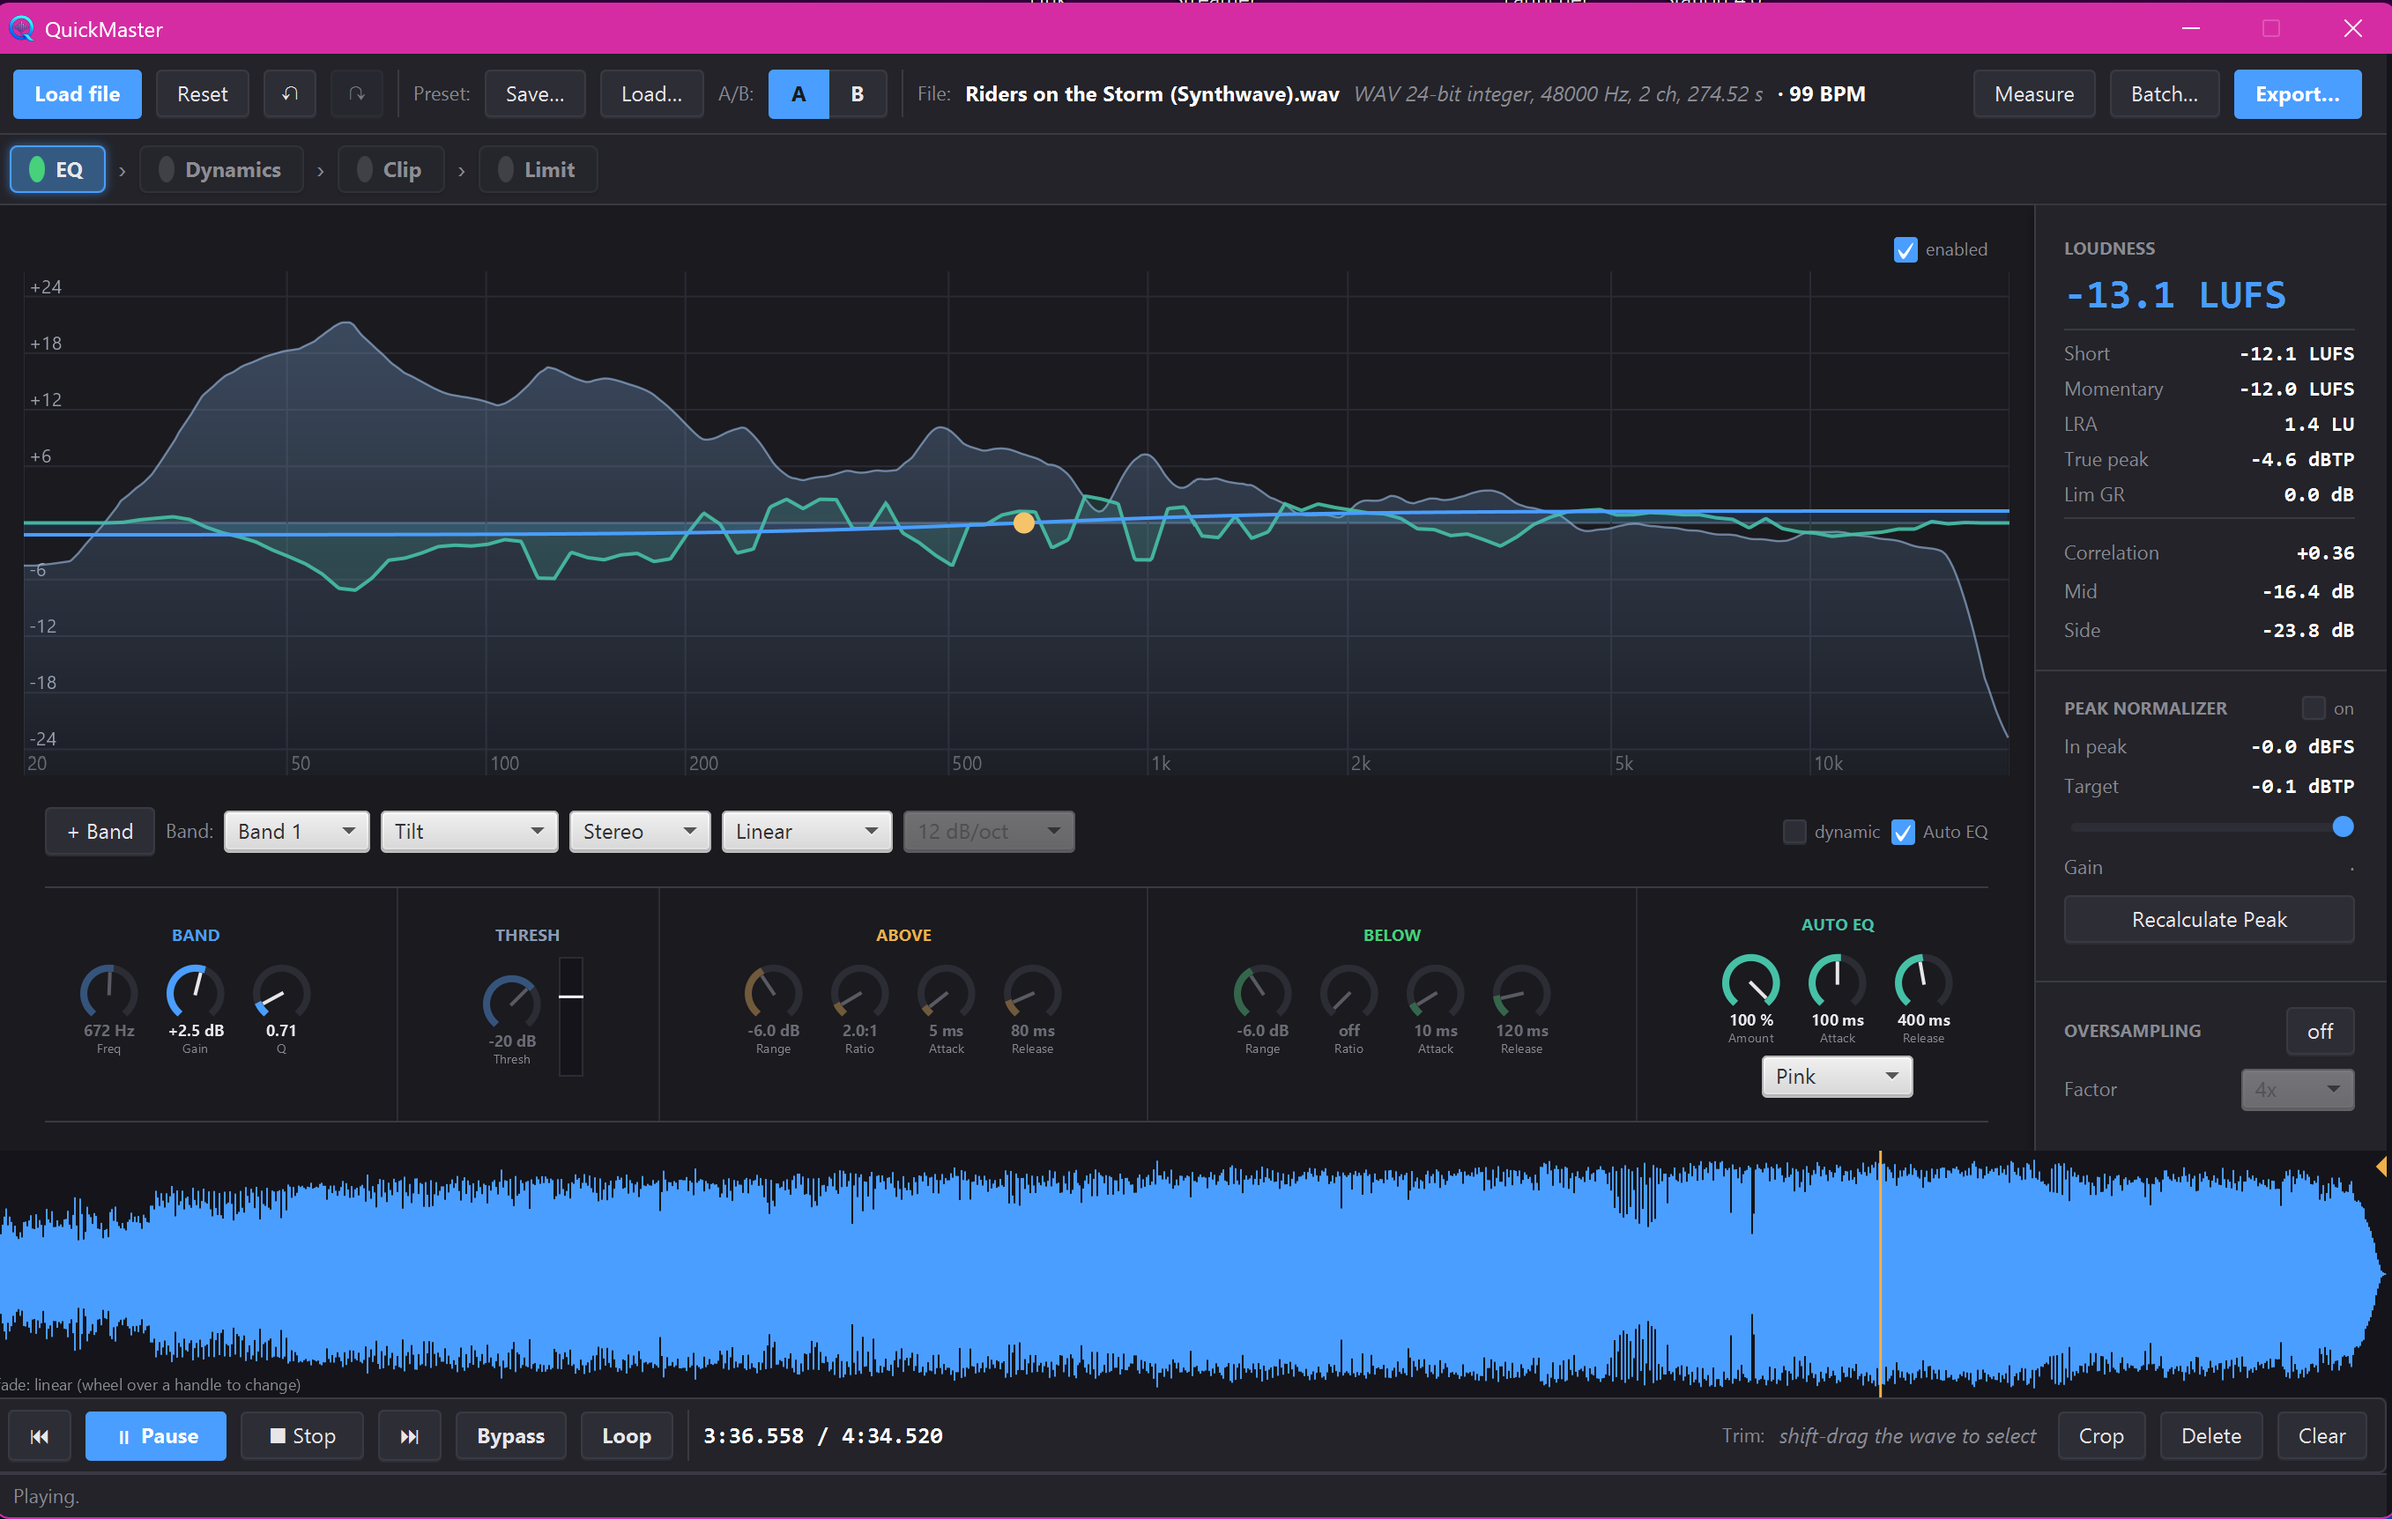
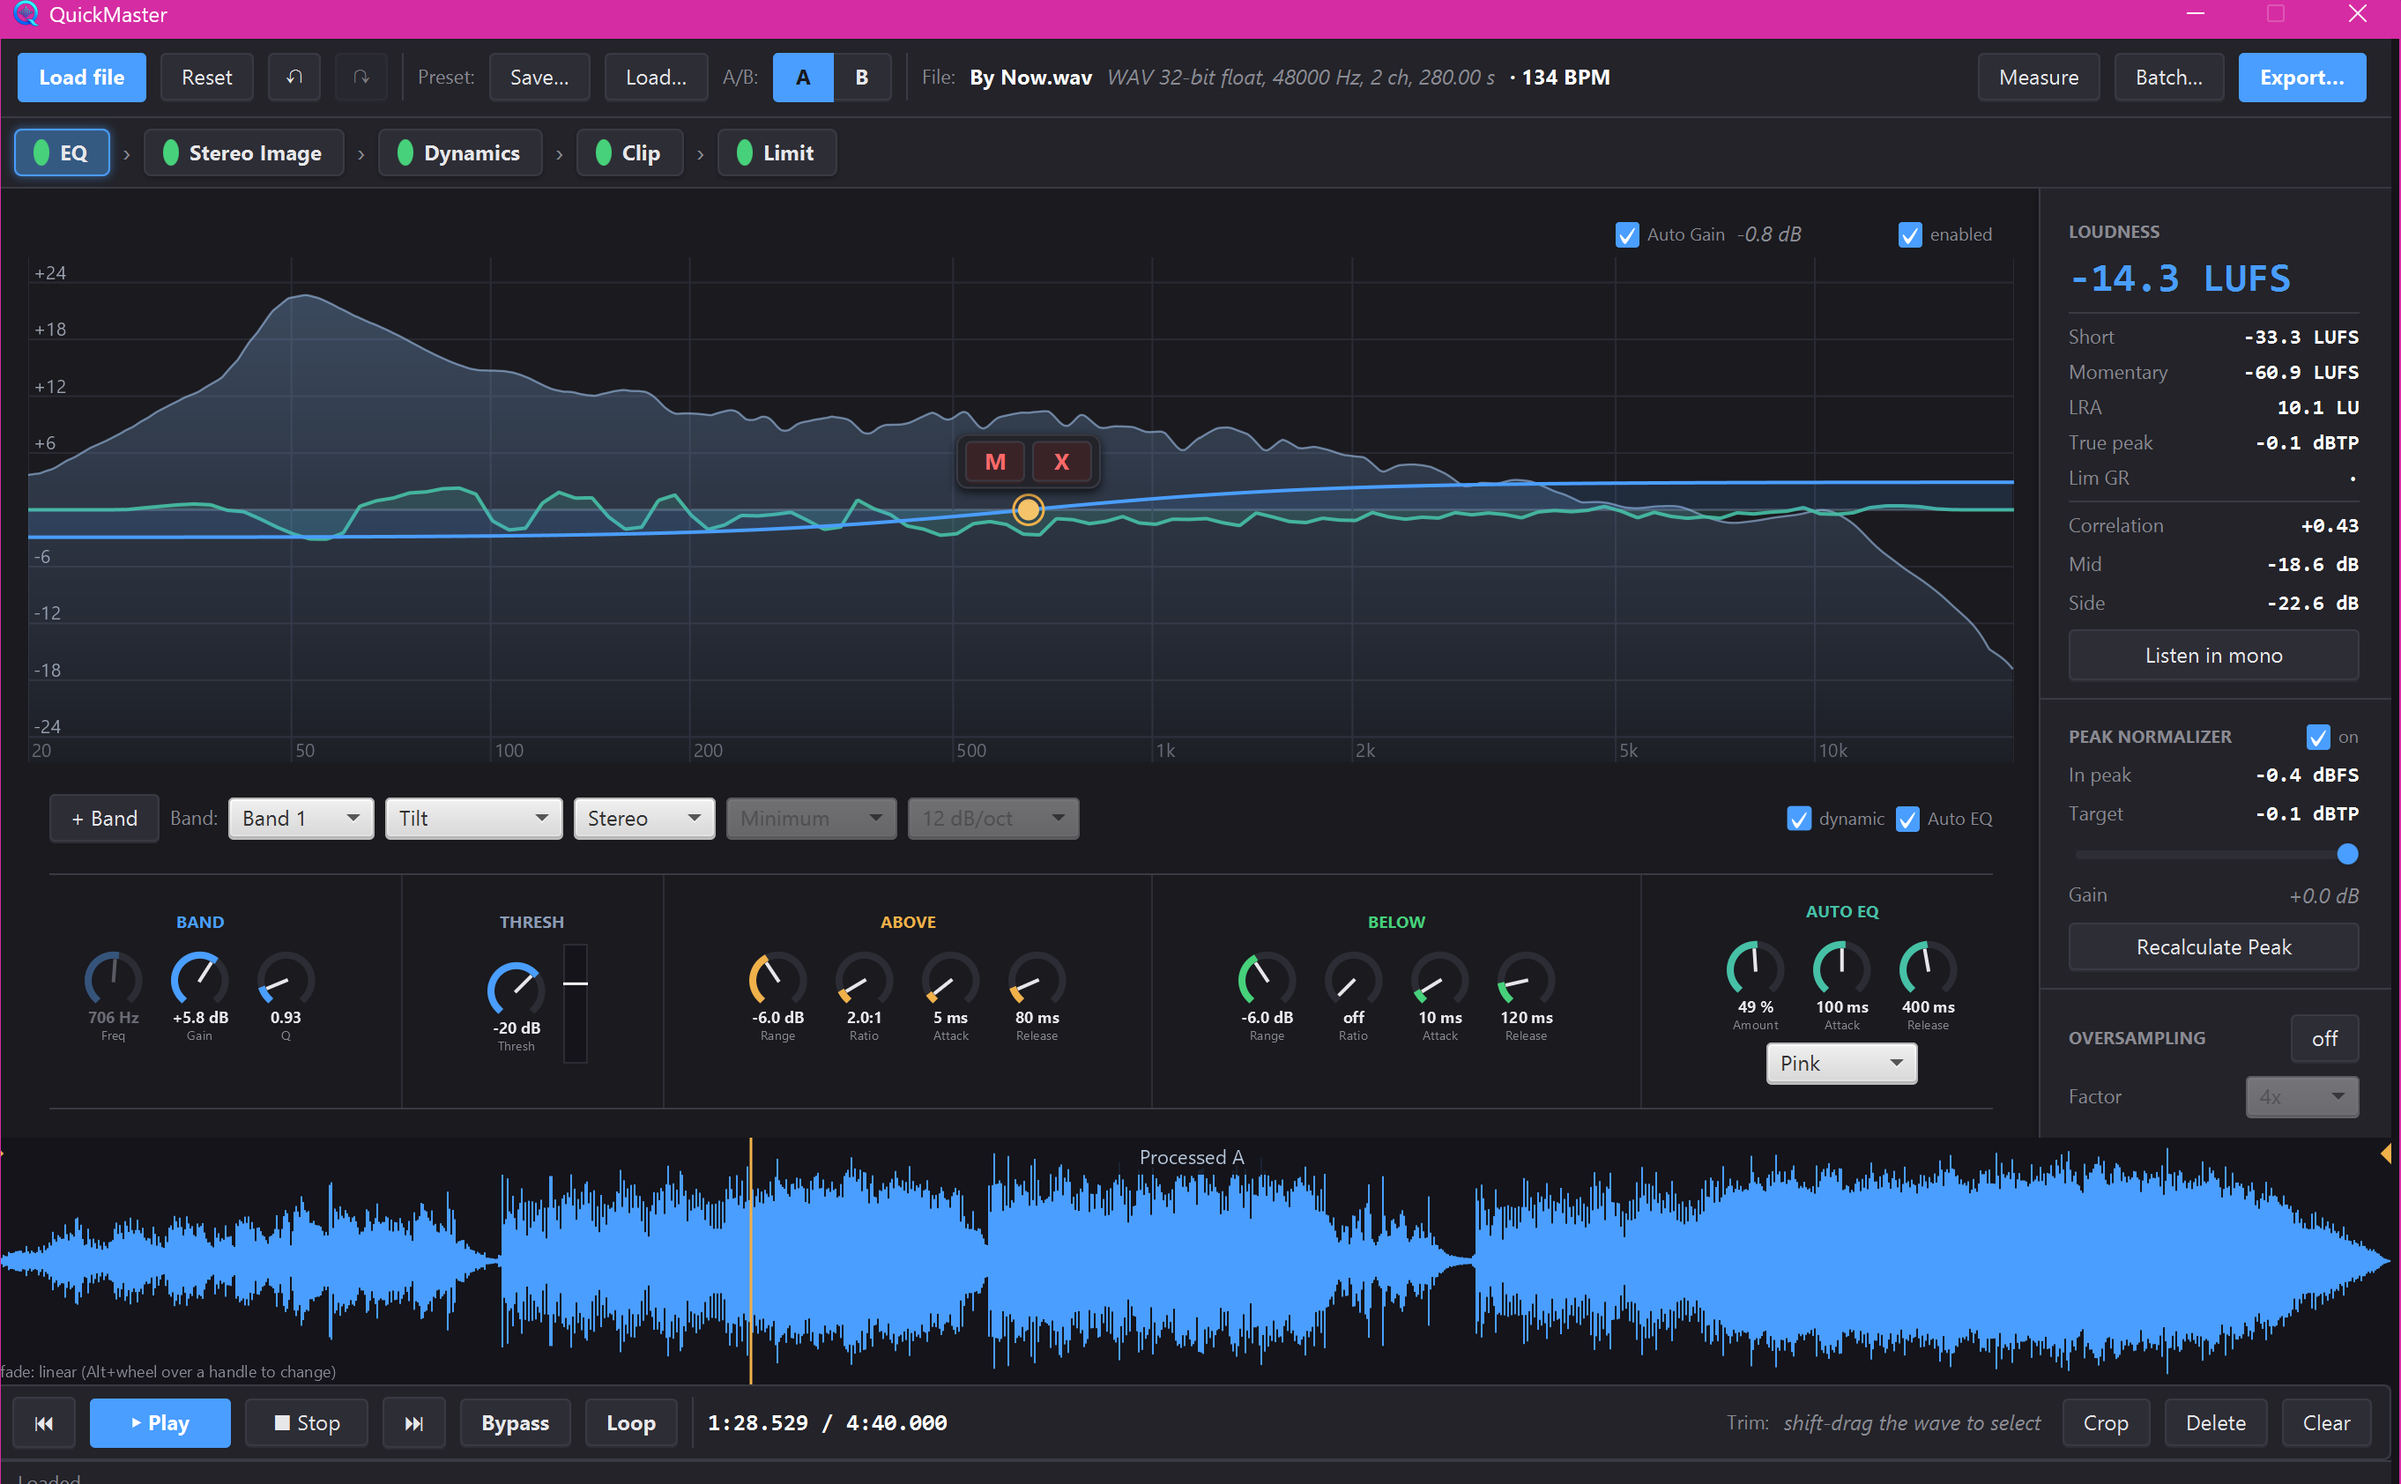
[DOC] refresh README and application screenshot

diff --git a/README.md b/README.md
@@ -1,16 +1,71 @@
-# QuickMaster
+<p align="center">
+  <img src="docs/icon-master.png" alt="QuickMaster logo" width="96" />
+</p>
+
+<h1 align="center">QuickMaster</h1>
+
+<p align="center">
+  <strong>Intelligent offline mastering. Whole-track insight. Hands-on control.</strong><br />
+  Shape tone, dynamics and stereo image in a portable desktop app powered by DSPark.
+</p>
+
+<p align="center">
+  <a href="https://github.com/CristianMoresi/QuickMaster/releases/latest"><img src="https://img.shields.io/github/v/release/CristianMoresi/QuickMaster?style=flat-square&amp;color=4499ff" alt="Latest release" /></a>
+  <a href="LICENSE"><img src="https://img.shields.io/badge/license-MIT-64c8bc?style=flat-square" alt="MIT license" /></a>
+  <a href="#download"><img src="https://img.shields.io/badge/platforms-Windows%20%7C%20macOS%20%7C%20Linux-555?style=flat-square" alt="Windows, macOS and Linux" /></a>
+  <a href="#build-from-source"><img src="https://img.shields.io/badge/runtime-Java%2025%20bundled-e8943a?style=flat-square" alt="Java 25 bundled in portable downloads" /></a>
+</p>
+
+<p align="center">
+  <a href="https://github.com/CristianMoresi/QuickMaster/releases/latest"><strong>Download</strong></a> ·
+  <a href="#quick-start">Quick start</a> ·
+  <a href="#using-quickmaster">User guide</a> ·
+  <a href="CHANGELOG.md">Changelog</a> ·
+  <a href="docs/VALIDATION.md">Validation</a>
+</p>
+
+![QuickMaster — EQ, Stereo Image, dynamics, metering and processed waveform](docs/gui.png)
+
+## Overview
 
 **QuickMaster uses whole-track analysis to prepare its processing before playback.** It measures loudness, peaks and spectral content, estimates tempo, and prepares gain envelopes with advance knowledge of the signal. The Leveler follows macro RMS across musical passages; it does not need to classify a passage as a verse or chorus before correcting its level.
 
 From that, it masters: shape tone and stereo image, compress and level dynamics, clip and saturate, and limit to a true-peak ceiling, then export the result without opening a full DAW. QuickMaster is a JavaFX desktop application.
 
-![QuickMaster](docs/gui.png)
-
 Built by **Cristian Moresi**, backend developer, audio-software developer and music producer. It is a young, open-source project and it will keep growing; today it already covers the essentials for quick, intelligent masters.
 
-This README describes the current `main` development version, **1.3.3-SNAPSHOT**.
-Published downloads may lag behind it; see the [changelog](CHANGELOG.md) for
-released versus unreleased changes.
+This README describes **QuickMaster 1.3.3**. See the [changelog](CHANGELOG.md)
+for the changes in each release and [Releases](https://github.com/CristianMoresi/QuickMaster/releases)
+for portable downloads.
+
+> **Portable by design.** Download, extract and run. No installer and no separate
+> Java installation are needed for the packaged app.
+
+## Quick start
+
+1. [Download the portable ZIP](https://github.com/CristianMoresi/QuickMaster/releases/latest)
+   for your system, extract it and launch QuickMaster.
+2. **Load file** to open a WAV or MP3. Let the initial track analysis finish.
+3. Enable only the modules you need. Drag the chain chips to change their order;
+   compare settings with **A/B**, the original with **Bypass**, and stereo
+   compatibility with **Listen in mono**.
+4. Check output headroom, choose your delivery settings and **Export**. Use
+   **Batch…** to apply the chain to several files.
+
+<details>
+<summary><strong>Explore the guide</strong></summary>
+
+- [Why offline?](#why-offline)
+- [EQ — and the compressor inside it](#eq-and-a-compressor-hiding-inside-it)
+- [Dynamics](#dynamics-automatic-analysis-driven-compression)
+- [Analysis and responsiveness](#analysis-and-responsiveness)
+- [Waveform zoom](#waveform-zoom) and [Leveler exclusions](#excluding-passages-from-the-leveler)
+- [Mono monitoring](#mono-monitoring) and [Stereo Image](#stereo-image)
+- [Clip](#clip-saturation-and-hard-clip), [Limit](#limit-the-final-touch) and [Output](#output)
+- [Features](#features-at-a-glance) and [known limitations](#known-limitations)
+- [Build from source](#build-from-source), [DSPark](#built-on-dspark) and [architecture](#architecture)
+
+</details>
 
 ## Why offline?
 
